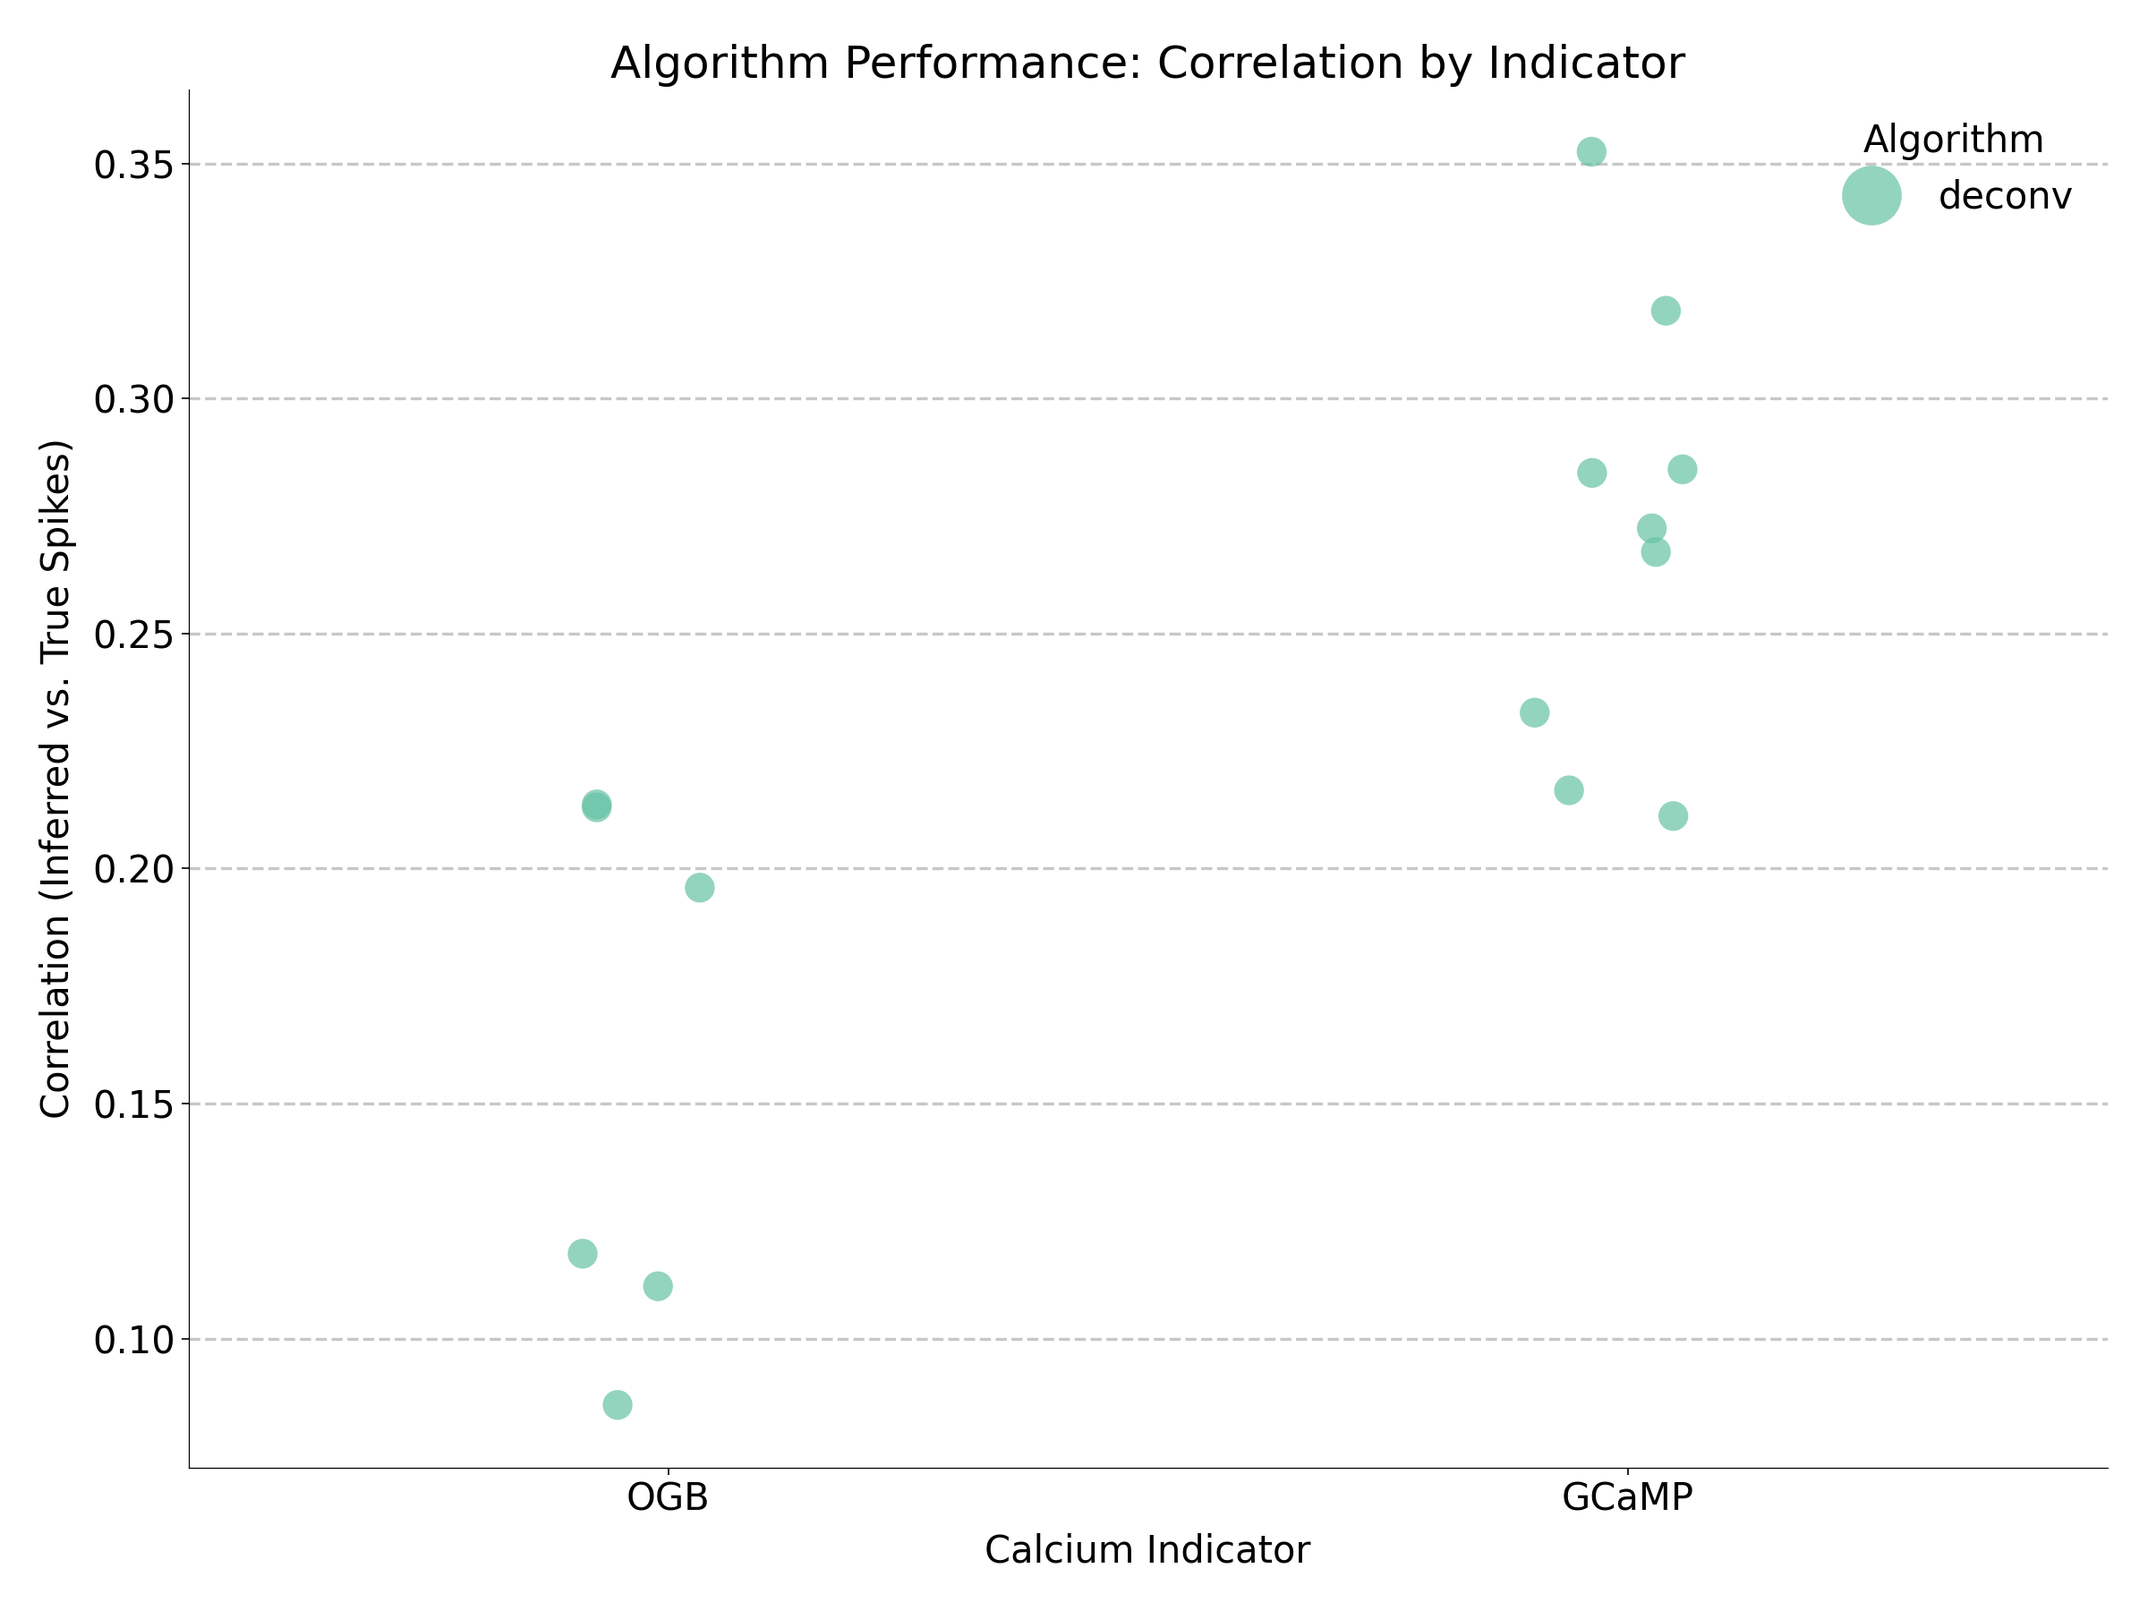
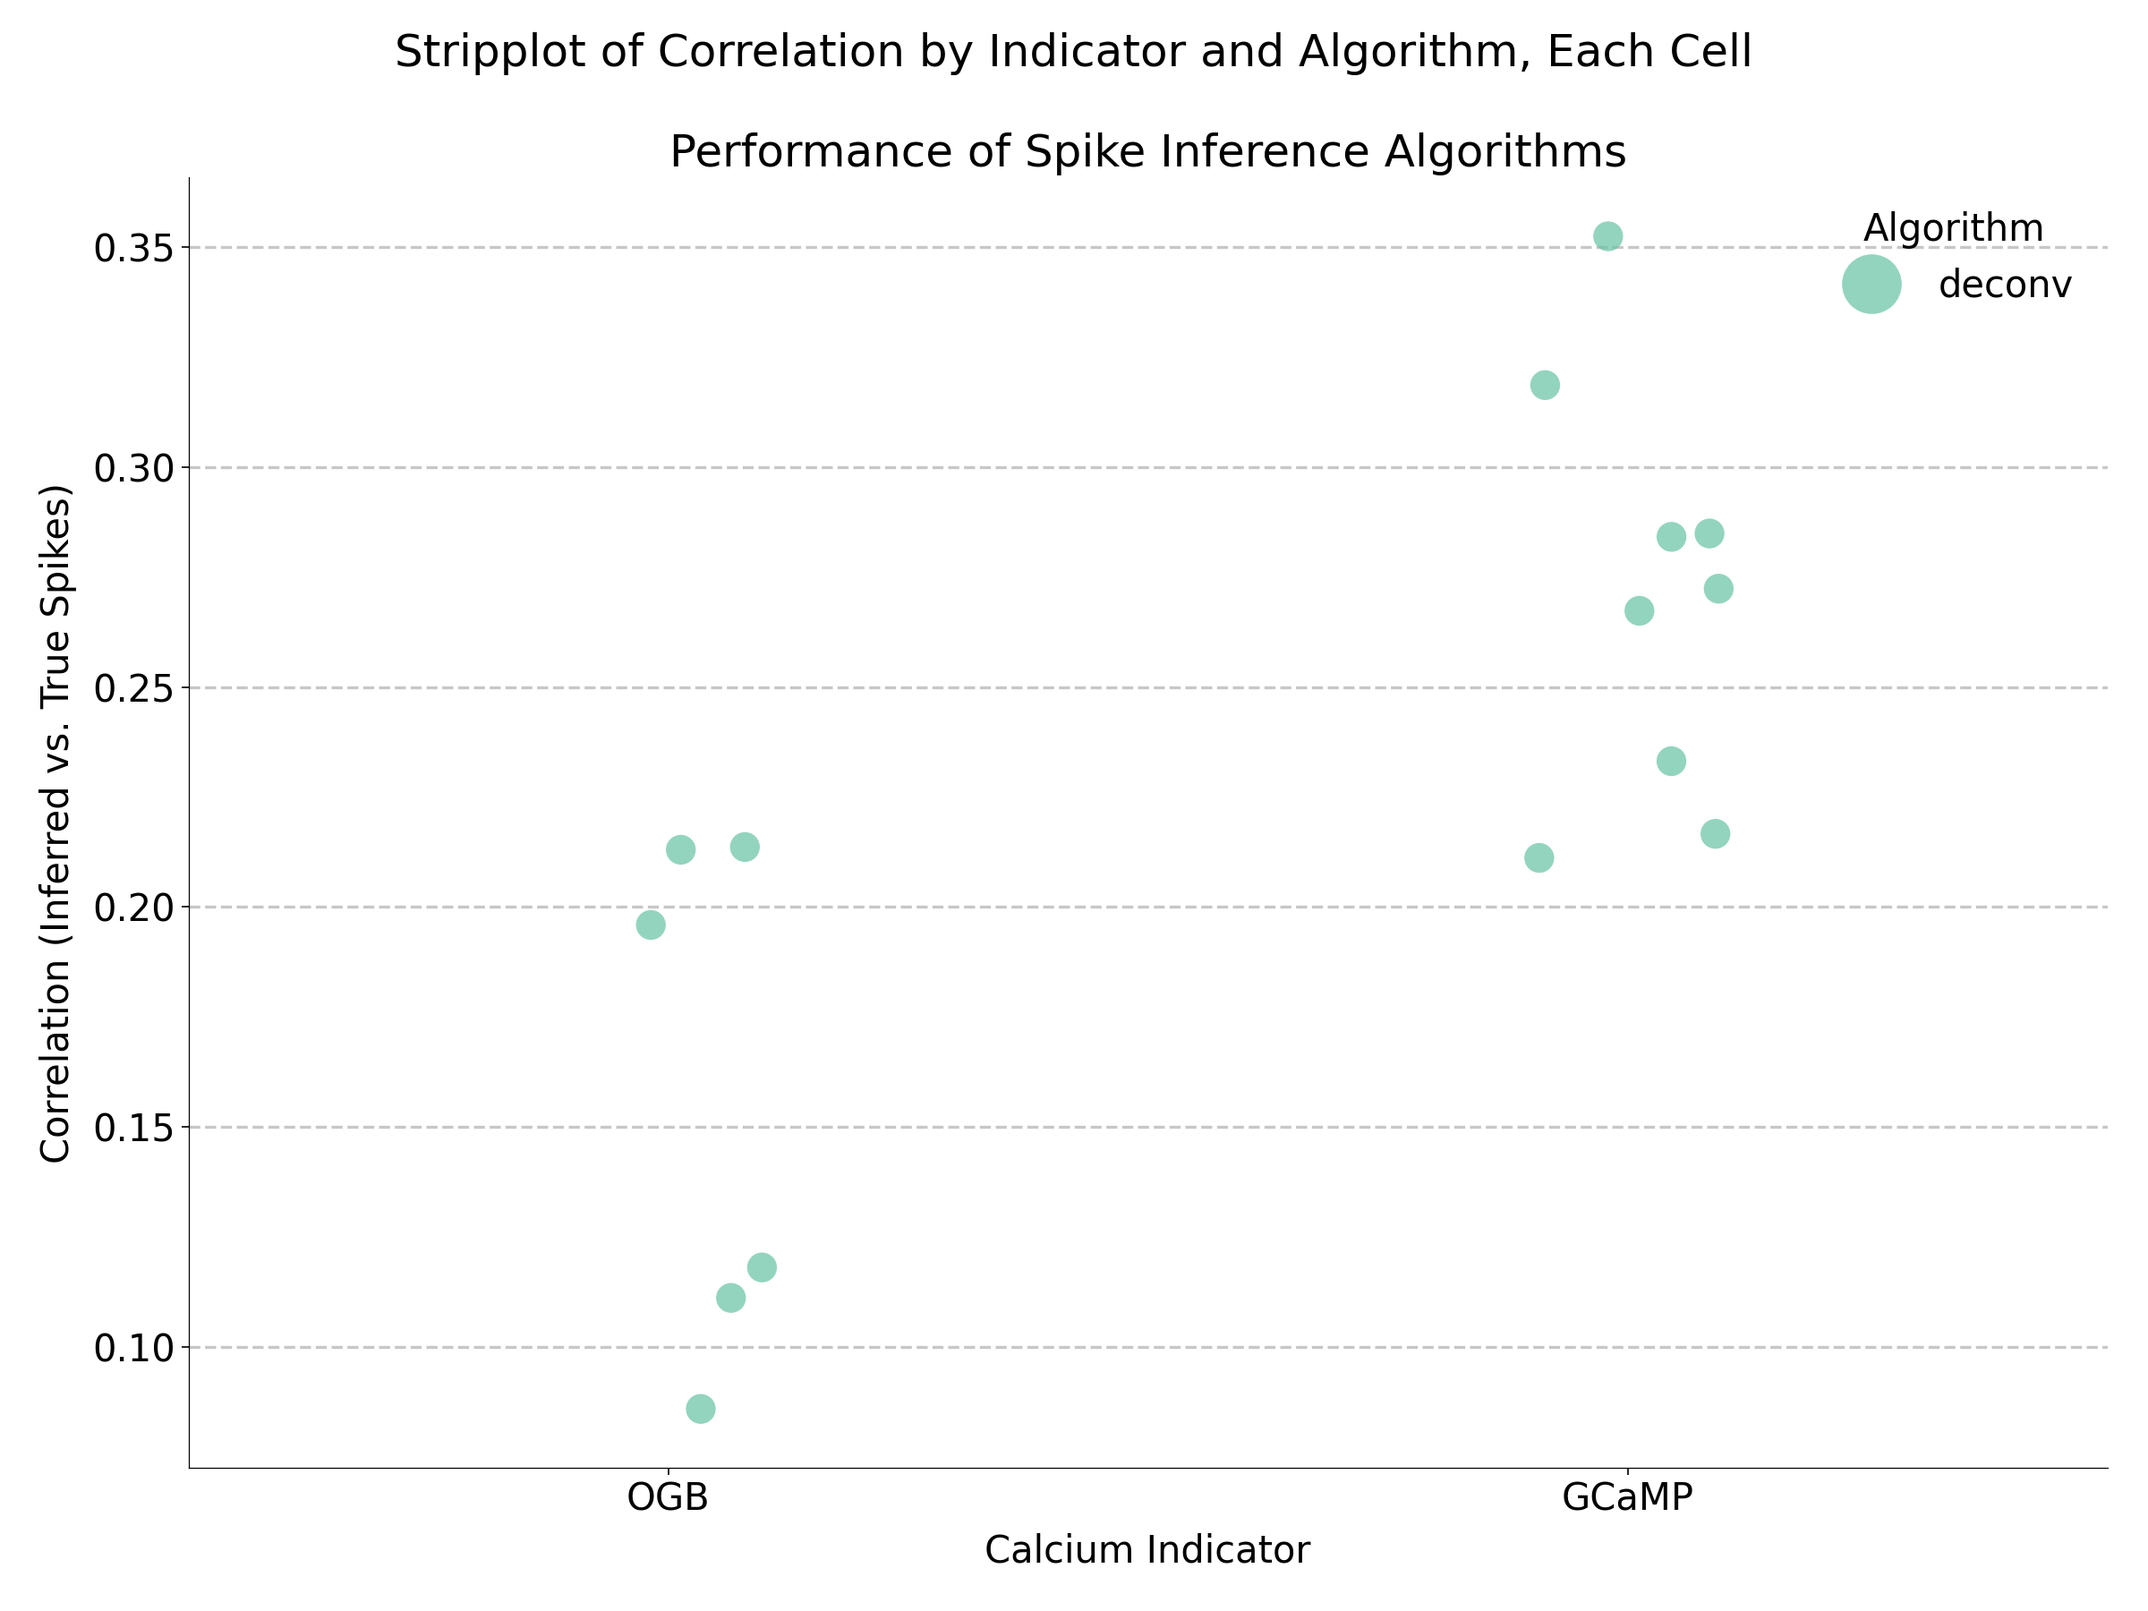
wip: adding strip plot and some refactor of stirp plot.

diff --git a/notebooks/lab-3.py b/notebooks/lab-3.py
@@ -46,6 +46,13 @@ import matplotlib.pyplot as plt
 import numpy as np
 from scipy import signal
 from __future__ import annotations
+import logging
+
+logging.basicConfig(
+    level=logging.INFO,
+    format="%(asctime)s - %(levelname)s - %(message)s",
+    datefmt="%Y-%m-%d %H:%M:%S",
+)
 
 %matplotlib inline
 
@@ -64,12 +71,12 @@ plt.style.use("../matplotlib_style.txt")
 # ogb dataset from Theis et al. 2016 Neuron
 ogb_calcium = pd.read_csv("../data/nds_cl_3_ogb_calcium.csv", header=0)
 ogb_spikes = pd.read_csv("../data/nds_cl_3_ogb_spikes.csv", header=0)
-print(f"[OGB] calcium: {ogb_calcium.shape}, spikes: {ogb_spikes.shape}")
+logging.debug(f"[OGB] calcium: {ogb_calcium.shape}, spikes: {ogb_spikes.shape}")
 
 # gcamp dataset from Chen et al. 2013 Nature
 gcamp_calcium = pd.read_csv("../data/nds_cl_3_gcamp2_calcium.csv", header=0)
 gcamp_spikes = pd.read_csv("../data/nds_cl_3_gcamp2_spikes.csv", header=0)
-print(f"[GCaMP] calcium: {gcamp_calcium.shape}, spikes: {gcamp_spikes.shape}")
+logging.debug(f"[GCaMP] calcium: {gcamp_calcium.shape}, spikes: {gcamp_spikes.shape}")
 
 # spike dataframe
 ogb_spikes.head()
@@ -129,7 +136,7 @@ def bin_spikes(spike_array, factor: int) -> np.ndarray:
     np.ndarray
         Binned spike matrix (n_bins, n_cells).
     """
-    print(f"Original shape: {spike_array.shape}")
+    logging.debug(f"Original shape: {spike_array.shape}")
     # spike_array = spike_df.iloc[:, 1:].values  # Drop time/index column if present
     n_bins = spike_array.shape[0] // factor
     n_cells = spike_array.shape[1]
@@ -147,8 +154,8 @@ resampled_gcamp_spikes = bin_spikes(gcamp_spikes.iloc[:, 1:].values, downsample_
 
 
 # Check shape
-print(f"Binned OGB spikes shape: {resampled_ogb_spikes.shape}")
-print(f"Binned GCaMP spikes shape: {resampled_gcamp_spikes.shape}")
+logging.debug(f"Binned OGB spikes shape: {resampled_ogb_spikes.shape}")
+logging.debug(f"Binned GCaMP spikes shape: {resampled_gcamp_spikes.shape}")
 
 #%%
 # --------------------
@@ -162,8 +169,8 @@ time = np.arange(ogb_start, ogb_end) / new_sampling_rate
 
 assert len(time) == 10 * new_sampling_rate # 10 seconds
 
-print(f"Duration of resampled OGB calcium: {len(time) / new_sampling_rate} seconds")
-print(f"Number of samples in OGB calcium: {len(resampled_ogb_calcium[ogb_cell, ogb_start:ogb_end])}")
+logging.debug(f"Duration of resampled OGB calcium: {len(time) / new_sampling_rate} seconds")
+logging.debug(f"Number of samples in OGB calcium: {len(resampled_ogb_calcium[ogb_cell, ogb_start:ogb_end])}")
 
 assert len(resampled_ogb_calcium[ogb_start:ogb_end, ogb_cell]) == 10 * new_sampling_rate # 10 seconds
 
@@ -283,7 +290,8 @@ def deconv_ca(ca: np.ndarray, tau: float, dt: float) -> np.ndarray:
 
 #%%
 def run_deconvolution(calcium: np.ndarray, 
-                      tau: float, dt: float) -> np.ndarray:
+                      tau: float, 
+                      dt: float) -> np.ndarray:
     """
     Run deconvolution on calcium data for all cells.
 
@@ -487,28 +495,21 @@ fig, axs = plt.subplots(
 # 
 # *Grading: 5 pts*
 pd.set_option("display.max_columns", None)
-eval_results = pd.DataFrame(
-    {
-        "algorithm": ["deconv", "oopsi"],
-        "correlation": [None, None],
-        "indicator": ["OGB", "GCaMP"],
-    }
-)
-
 
 # %% [markdown]
 # First, evaluate on OGB data and create OGB dataframe. 
 # Then repeat for GCamp and combine the two dataframes.
 def evaluate_algorithm(
+    algorithm: str,
     calcium: np.ndarray,
     spikes: np.ndarray,
-    algorithm: str,
     tau: float,
     dt: float,
     indicator: str  # Add this to label which dataset (OGB or GCaMP)
 ) -> pd.DataFrame:
     """
-    Evaluate the algorithm on calcium and spike data for all cells.
+    Evaluate the algorithm on calcium and spike data for all 
+    cells.
 
     Parameters
     ----------
@@ -562,90 +563,102 @@ def evaluate_algorithm(
         })
 
     return pd.DataFrame(results)
+
 # %%
 # ----------------------------------------------------------
 # Evaluate the algorithms on the OGB and GCamp cells (2 pts)
 # ----------------------------------------------------------
 # Ensure dt, tau_ogb, and tau_gcamp are defined (likely from Task 2)
-# List to store individual DataFrame results
-all_results_list = []
+def run_all_algorithms(
+    indicators: list[str],
+    calcium_data_map: dict,
+    spike_data_map: dict, 
+    algorithm_map: dict,
+    tau_map: dict,
+    dt: float,
+) -> pd.DataFrame:
+    """
+    Run all algorithms on the provided calcium and spike data.
+    Parameters
+    ----------
+    indicators : list[str]
+        List of indicators (e.g. ["OGB", "GCaMP"]).
+    calcium_data : dict
+        Dictionary mapping indicator names to their respective calcium data.
+    spike_data : dict 
+        Dictionary mapping indicator names to their respective spike data. 
+    algorithm_map : dict
+        Mapping of algorithm names to their respective functions.
+    tau_map : dict 
+        Mapping of indicator names to their respective tau values.
+    dt : float
+        Sampling interval.
+    Returns
+    -------
+    pd.DataFrame
+        DataFrame with correlation results for each cell.
+    """
+    # List to store individual DataFrame results
+    all_results_list = []
 
-algorithms_to_evaluate = ["deconv"]
-# If you implement oopsi and want to evaluate it, add "oopsi" to the list:
-# algorithms_to_evaluate = ["deconv", "oopsi"]
-
-for alg in algorithms_to_evaluate:
-    for indicator, calcium_data, spike_data in zip(
-        ["OGB", "GCaMP"],
-        [resampled_ogb_calcium, resampled_gcamp_calcium],
-        [resampled_ogb_spikes, resampled_gcamp_spikes]
-    ):
-        print(f"\nEvaluating Algorithm: '{alg}' for Indicator: '{indicator}'")
-        print(f"Initial calcium data shape: {calcium_data.shape}")
-        print(f"Initial spike data shape: {spike_data.shape}")
-
-        # Determine the correct tau for the current indicator
-        current_tau = tau_ogb if indicator == "OGB" else tau_gcamp
-
-        # Ensure calcium and spike data have the same number of time points (rows)
-        # This can be important if decimation and binning led to slight length differences
-        min_rows = min(calcium_data.shape[0], spike_data.shape[0])
-        
-        aligned_calcium = calcium_data[:min_rows, :]
-        aligned_spikes = spike_data[:min_rows, :]
-        
-        print(f"Aligned calcium shape for evaluation: {aligned_calcium.shape}")
-        print(f"Aligned spikes shape for evaluation: {aligned_spikes.shape}")
-
-        if alg == "oopsi":
-            # Special handling for oopsi if its input requirements differ
-            # or if it processes one cell at a time differently.
-            # The provided oopsi.py might take (Time,) for calcium.
-            # For now, this example assumes evaluate_algorithm handles it.
-            # If oopsi.oopsi itself handles multiple cells, great.
-            # If not, you might need a loop inside evaluate_algorithm for oopsi too,
-            # or call it cell by cell here.
+    for alg_name, alg_func in algorithm_map.items():
+        for indicator in indicators:
+            # Get the calcium and spike data for the current indicator
+            calcium_data = calcium_data_map[indicator]
+            spike_data = spike_data_map[indicator]
+            tau = tau_map[indicator]
             
-            # Example: if oopsi.oopsi needs 1D calcium array per cell
-            inferred_spikes_algo = np.zeros_like(aligned_calcium)
-            if aligned_calcium.shape[1] > 0 : # Check if there are cells
-                 for cell_idx in range(aligned_calcium.shape[1]):
-                    # Note: The oopsi function from the master branch of py-oopsi
-                    # seems to take F (calcium trace, 1d), and dt. Tau is estimated.
-                    # You might need to adjust how tau is passed or used if using that version.
-                    # For this exercise, we are following the structure of deconv_ca.
-                    # If your oopsi function in evaluate_algorithm is set up like deconv_ca, this is fine.
-                    if 'oopsi' in globals() and hasattr(oopsi, 'oopsi'): # Check if oopsi is imported and has the function
-                        # This is a placeholder, adapt if your oopsi function works differently
-                        # The evaluate_algorithm function already loops through cells for "oopsi"
-                        pass # evaluate_algorithm will handle it based on its internal logic
-                    else:
-                        print(f"OOPSI algorithm selected, but 'oopsi.oopsi' function not available. Skipping OOPSI for {indicator}.")
-                        continue 
-            else:
-                print(f"No cells found for {indicator}. Skipping OOPSI.")
-                continue
-        # Call the evaluation function
-        df_result = evaluate_algorithm(
-            calcium=aligned_calcium,
-            spikes=aligned_spikes,
-            algorithm=alg,
-            tau=current_tau,
-            dt=dt,
-            indicator=indicator
-        )
+            logging.debug(f"\nEvaluating Algorithms: '{alg_name}' for Indicator: '{indicator}'")
+            logging.debug(f"Initial calcium data shape: {calcium_data.shape}")
+            logging.debug(f"Initial spike data shape: {spike_data.shape}")
+            # Ensure calcium and spike data have the same number of time points (rows)
+            # This can be important if decimation and binning led to slight length differences  
+            min_rows = min(calcium_data.shape[0], spike_data.shape[0])
+            aligned_calcium = calcium_data[:min_rows, :]
+            aligned_spikes = spike_data[:min_rows, :]
+            logging.debug(f"Aligned calcium shape for evaluation: {aligned_calcium.shape}")
+            logging.debug(f"Aligned spikes shape for evaluation: {aligned_spikes.shape}")
+            
+            # Call the evaluation function
+            df_result = evaluate_algorithm(
+                algorithm=alg_name,
+                calcium=aligned_calcium,
+                spikes=aligned_spikes,
+                tau=tau,
+                dt=dt,
+                indicator=indicator
+            )
+            all_results_list.append(df_result)
+    # Concatenate all results into the final DataFrame  
+    if all_results_list:
+        eval_results_df = pd.concat(all_results_list, ignore_index=True)
+    else:
+        eval_results_df = pd.DataFrame() # Create an empty DataFrame if no results
+    return eval_results_df
+#%%
 
-        all_results_list.append(df_result)
-
-# Concatenate all results into the final DataFrame
-if all_results_list:
-    eval_results_df = pd.concat(all_results_list, ignore_index=True)
-else:
-    eval_results_df = pd.DataFrame() # Create an empty DataFrame if no results
-
-print("\n--- Final Evaluation DataFrame ---")
-print(eval_results_df)
-
+#%%
+eval_results_df = run_all_algorithms(
+    indicators=["OGB", "GCaMP"],
+    calcium_data_map={
+        "OGB": resampled_ogb_calcium,
+        "GCaMP": resampled_gcamp_calcium
+    },
+    spike_data_map={
+        "OGB": resampled_ogb_spikes,
+        "GCaMP": resampled_gcamp_spikes
+    },
+    algorithm_map={
+        "deconv": run_deconvolution,
+        # TODO: Add "oopsi": oopsi.oopsi if you implement it
+    },
+    tau_map={
+        "OGB": tau_ogb,
+        "GCaMP": tau_gcamp
+    },
+    dt=dt
+)
+    
 # Now eval_results_df is ready for Task 4 plotting
 # %%
 # ----------------------------------------------------------
@@ -735,6 +748,44 @@ else:
 plt.savefig("../plots/evaluation_results.png", dpi=300)
 plt.show()
 
-print("\n--- Final Evaluation DataFrame Used for Plot ---")
-print(eval_results_df)
+logging.debug("\n--- Final Evaluation DataFrame Used for Plot ---")
+logging.debug(eval_results_df)
+# %%
+def strip_plot_eval_results(eval_results_df):
+    """
+    Create a stripplot for the evaluation results.
+
+    Parameters
+    ----------
+    eval_results_df : pd.DataFrame
+        DataFrame containing evaluation results with columns:
+        'indicator', 'correlation', and 'algorithm'.
+    """
+    plt.figure(figsize=(8, 6)) # Adjust figure size as needed
+    ax = sns.stripplot(
+        x="indicator",      # Categorical variable for the x-axis (groups)
+        y="correlation",    # Numerical variable for the y-axis (values to plot)
+        hue="algorithm",    # Second categorical variable to group by color
+        data=eval_results_df,
+        jitter=True,        # Adds random noise along the categorical axis to prevent points from overlapping
+                            # You can also use a float for finer control, e.g., jitter=0.1
+        dodge=True,         # Separates the strips for different 'hue' levels along the x-axis
+        alpha=0.7,          # Transparency of points (useful if many points overlap)
+        palette="Set2",      # Color palette for different algorithms
+        size=16,             # Size of the points
+    )
+
+    plt.title("Performance of Spike Inference Algorithms")
+    plt.suptitle("Stripplot of Correlation by Indicator and Algorithm, Each Cell")
+    plt.xlabel("Calcium Indicator")
+    plt.ylabel("Correlation (Inferred vs. True Spikes)")
+    plt.grid(axis='y', linestyle='--', alpha=0.7)
+    plt.legend(title="Algorithm") # Add a legend for the hue
+    plt.tight_layout()
+    plt.savefig("../plots/eval_results_stripplot.png", dpi=300)
+    plt.show()
+
+# drop NaN values for plotting
+#filtered_eval_results_df = eval_results_df.dropna(subset=["correlation"])
+strip_plot_eval_results(eval_results_df)
 # %%
